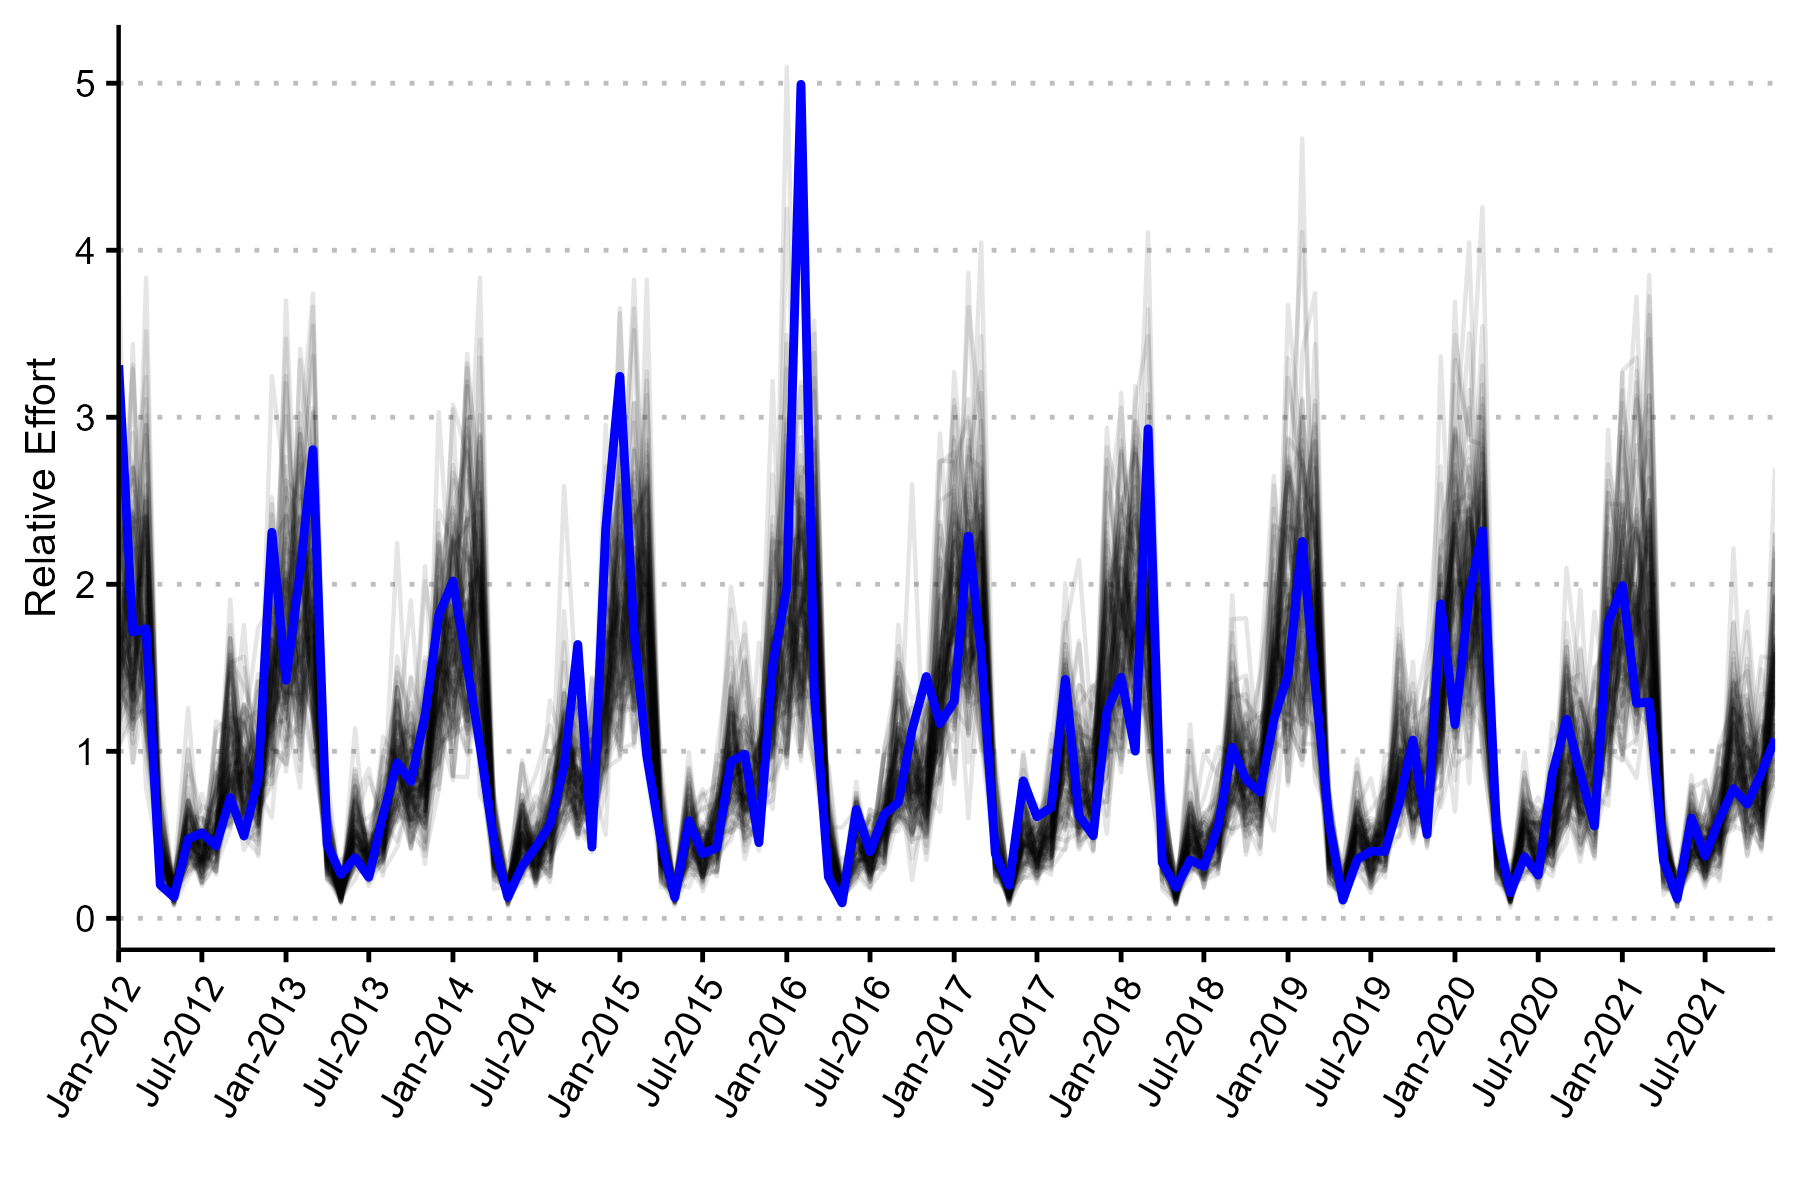
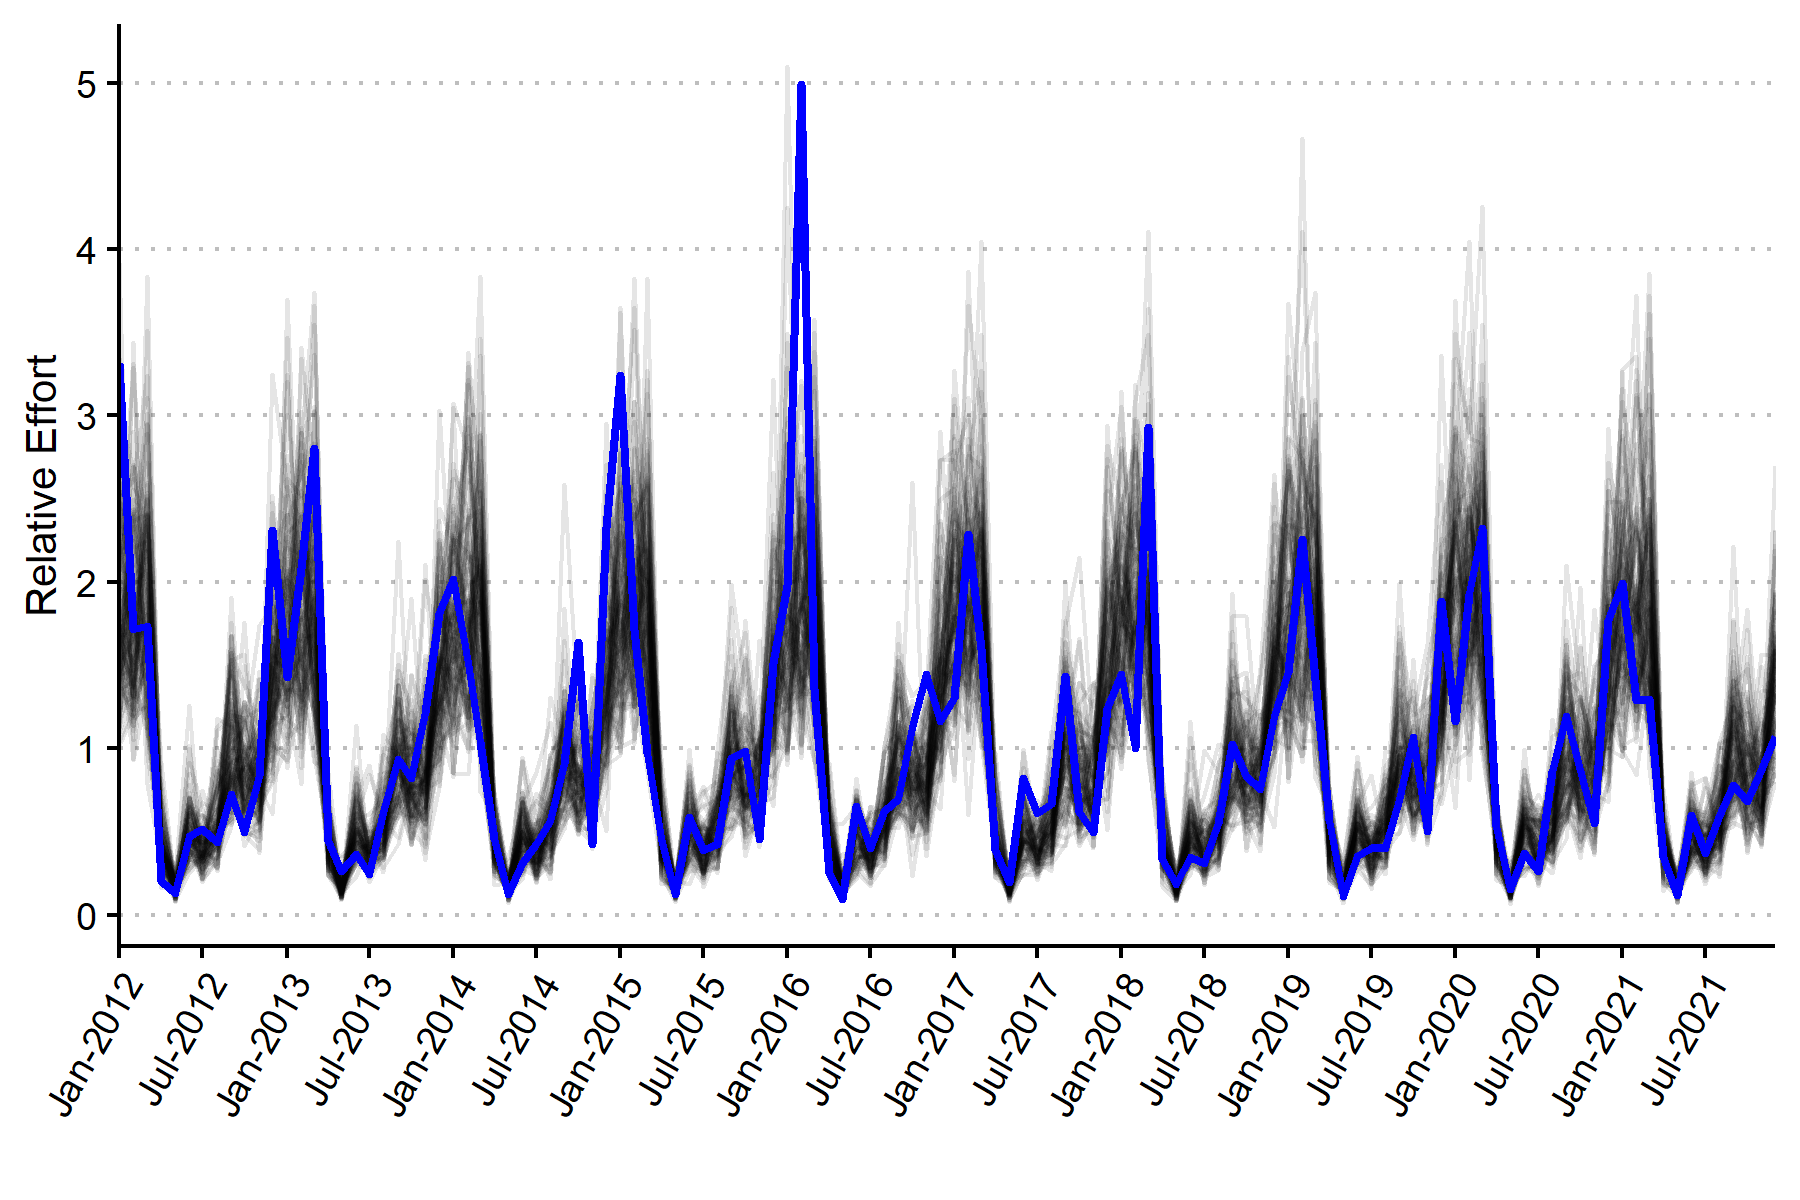
update

diff --git a/src/TMB/SLAM.hpp b/src/TMB/SLAM.hpp
@@ -117,7 +117,6 @@ Type SLAM(objective_function<Type>* obj) {
     }
   }
 
-
   // F, M, and Z by month and age
   matrix<Type> F_ma(n_ages, n_months);
   matrix<Type> M_ma(n_ages, n_months);
@@ -185,11 +184,12 @@ Type SLAM(objective_function<Type>* obj) {
     int m_ind = t % 12; // month index
     for(int a=0;a<n_ages;a++){
       if (a==0) {
-        if (m_ind==0) {
-          N_unfished(a,m_ind) = R0_m(m_ind);
-        } else {
-          N_unfished(a,m_ind) = R0_m(m_ind) * exp(logRec_Devs(m_ind) - pow(sigmaR,2)/Type(2.0));
-        }
+        N_unfished(a,m_ind) = R0_m(m_ind);
+        // if (m_ind==0) {
+        //   N_unfished(a,m_ind) = R0_m(m_ind);
+        // } else {
+        //   N_unfished(a,m_ind) = R0_m(m_ind) * exp(logRec_Devs(m_ind) - pow(sigmaR,2)/Type(2.0));
+        // }
       } else {
         if (m_ind==0) {
           N_unfished(a,m_ind) = N_unfished(a-1,11) * exp(-M_ma(a-1, 11)) * (1-PSM_at_Age(a-1));
